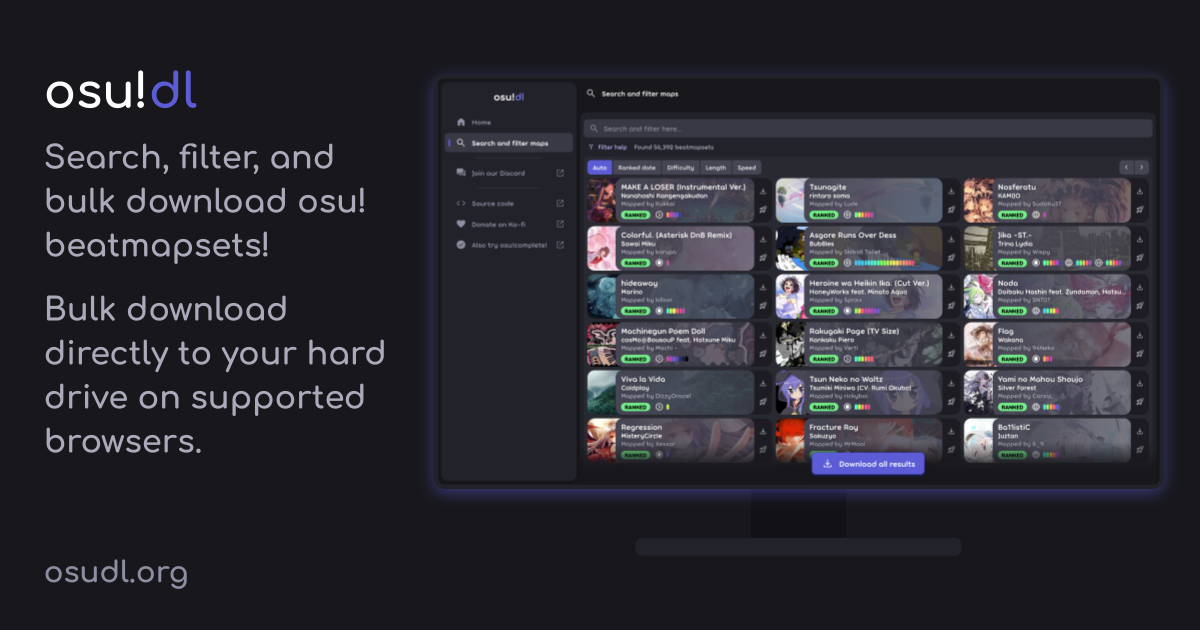
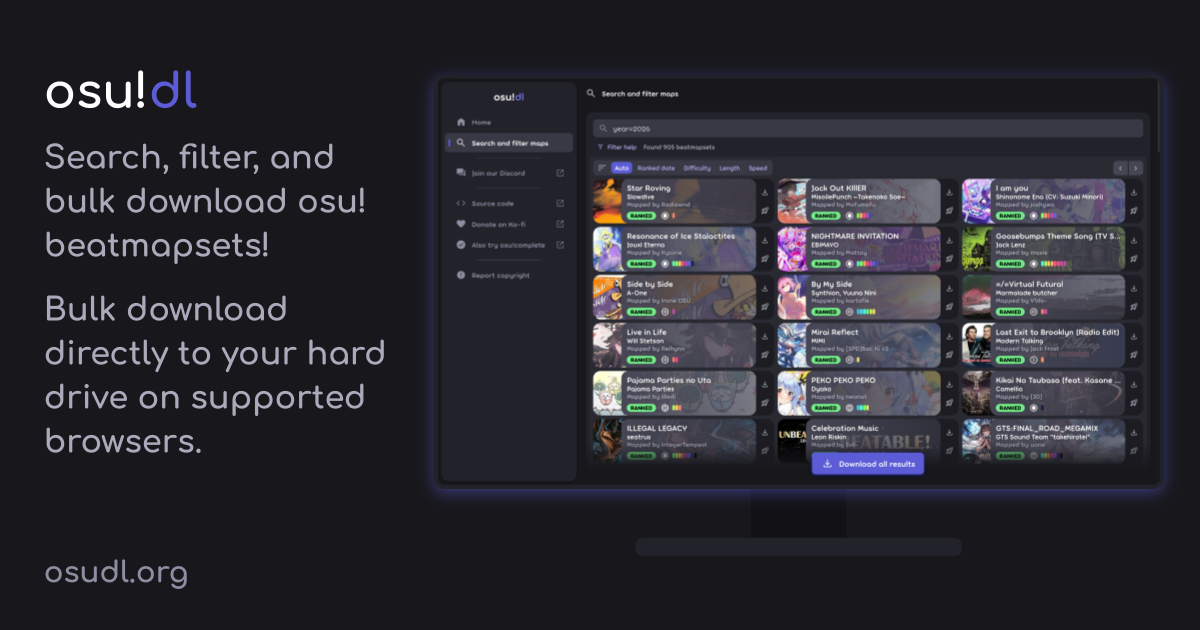
Update promo and readme

Changed region(s): [[0.4625, 0.181, 0.9558, 0.754], [0.37, 0.4222, 0.4317, 0.4524], [0.9558, 0.181, 0.9867, 0.2111]]

diff --git a/README.md b/README.md
@@ -1,7 +1,19 @@
 # osu!dl
 
-Filter and bulk download osu beatmaps!
+Search, filter, and bulk download osu beatmaps!
 
-Find the source of the currently running <https://osudl.org> in the `legacy` branch.
+![osu!dl Promo](/apps/web/public/assets/images/promo.png)
 
 Also check out [osu!complete](https://osucomplete.org)! A lot of its source code is being reused here.
+
+## Features
+
+- Full-text search within all attributes of beatmaps
+- Advanced search filters
+- Stores all ranked, approved, and loved maps, including those rendered undownlaodable by osu! due to copyright
+    - Copyrighted maps are stored in a playable state but without audio and image assets
+- Extremely fast bulk map downloads directly to a device folder
+- Fallback streamed zip bulk downloads
+- Modern and responsive web UI ideal for use on both desktop and mobile
+- Optional desktop app providing the full feature set without the need for a browser
+- Off-site S3-compatible storage model
